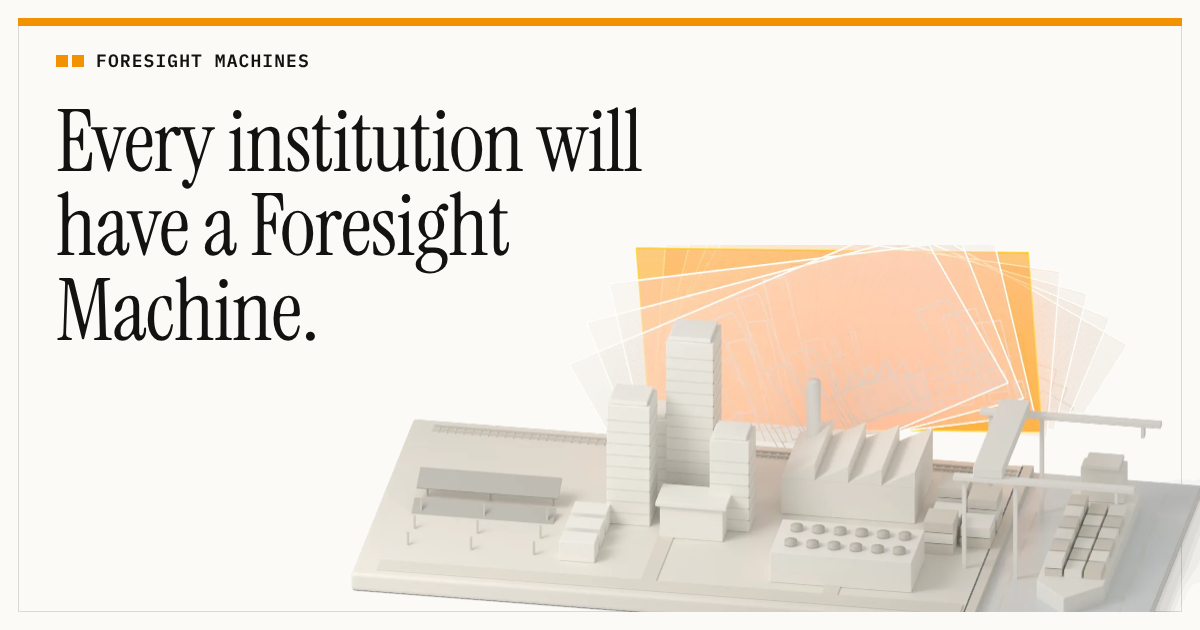
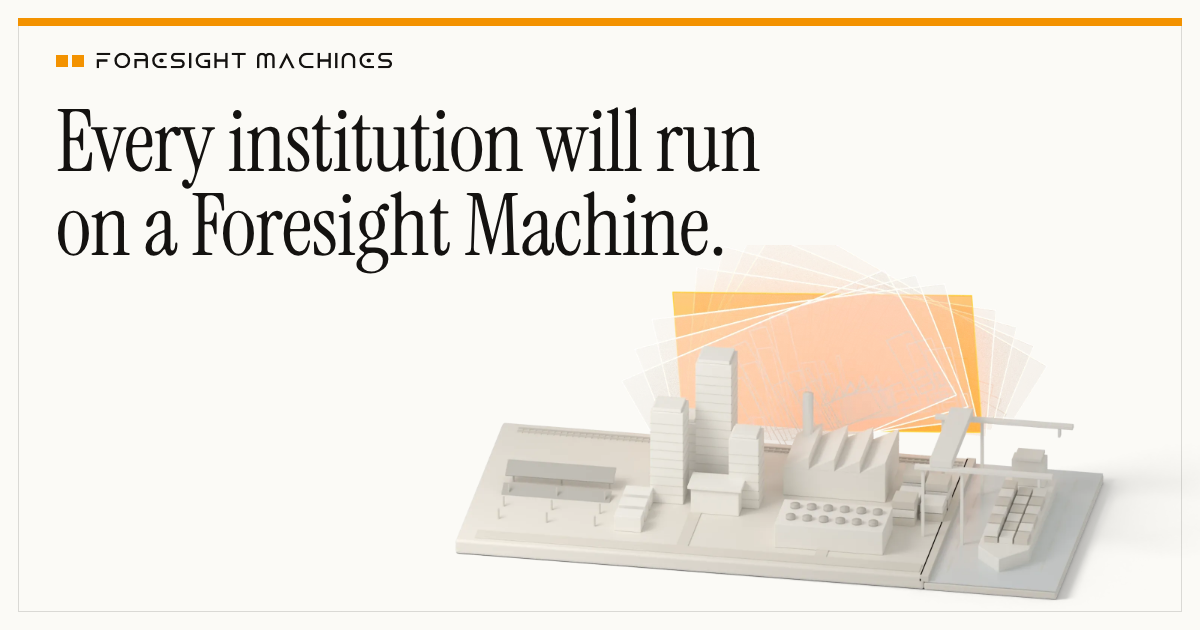
Final changes: run on, executable models, three worlds, trust earned in three places, Simulate clause, manifesto II and III
Claude-Session: https://claude.ai/code/session_01KJTweMhfZWuWexSYwMJPUu

Changed region(s): [[0.0308, 0.3016, 1.0, 0.9952], [0.0617, 0.0603, 0.3392, 0.1206], [0.5242, 0.181, 0.6475, 0.2714]]

diff --git a/index.html b/index.html
@@ -7,7 +7,7 @@
     <link rel="canonical" href="https://foresightmachines.com/" />
     <meta
       name="description"
-      content="Every institution will have a Foresight Machine to simulate its world and change what happens next."
+      content="Every institution will run on a Foresight Machine to simulate its world and change what happens next."
     />
     <meta name="theme-color" content="#f3f1ec" />
     <link rel="icon" href="/favicon.ico" sizes="48x48" />
@@ -19,16 +19,16 @@
     <link rel="preload" href="/fonts/geist-latin.woff2" as="font" type="font/woff2" crossorigin />
     <link rel="preload" href="/fonts/plexmono-600-latin.woff2" as="font" type="font/woff2" crossorigin />
     <meta property="og:title" content="Foresight Machines" />
-    <meta property="og:description" content="Every institution will have a Foresight Machine to simulate its world and change what happens next." />
+    <meta property="og:description" content="Every institution will run on a Foresight Machine to simulate its world and change what happens next." />
     <meta property="og:type" content="website" />
     <meta property="og:url" content="https://foresightmachines.com/" />
     <meta property="og:image" content="https://foresightmachines.com/og.png" />
     <meta property="og:image:width" content="1200" />
     <meta property="og:image:height" content="630" />
-    <meta property="og:image:alt" content="Foresight Machines. Every institution will have a Foresight Machine." />
+    <meta property="og:image:alt" content="Foresight Machines. Every institution will run on a Foresight Machine." />
     <meta name="twitter:card" content="summary_large_image" />
     <meta name="twitter:title" content="Foresight Machines" />
-    <meta name="twitter:description" content="Every institution will have a Foresight Machine to simulate its world and change what happens next." />
+    <meta name="twitter:description" content="Every institution will run on a Foresight Machine to simulate its world and change what happens next." />
     <meta name="twitter:image" content="https://foresightmachines.com/og.png" />
     <script type="module" src="/src/pages/home.ts"></script>
   </head>
@@ -65,8 +65,8 @@
       </div>
       <div class="hero__copy">
         <a class="hero__dispatch" href="/journal/the-future-should-be-engineered-with-foresight/"><span class="hero__dispatch-k"><span class="bar__squares" aria-hidden="true"><i></i><i></i></span>Manifesto</span><span class="hero__dispatch-t">The future should be engineered with foresight</span><span class="hero__dispatch-a" aria-hidden="true">→</span></a>
-        <h1 class="hero__line"><span class="hl hl--a">Every institution will have a Foresight&nbsp;Machine</span> <span class="hl hl--b">to simulate its world and <u>change what happens next.</u></span></h1>
-        <p class="hero__sub">A Foresight Machine models an institution and the systems it depends on: its capital, contracts, counterparties, markets and rules, and how they move together. It simulates every major decision before it is made, finds the intervention that holds, and learns from each outcome.</p>
+        <h1 class="hero__line"><span class="hl hl--a">Every institution will run on a Foresight&nbsp;Machine</span> <span class="hl hl--b">to simulate its world and <u>change what happens next.</u></span></h1>
+        <p class="hero__sub">Executable models of institutions and the systems they depend on, built to simulate shocks, intervene on the terms and price the risk across money, power and trade.</p>
         <p class="hero__actions"><a class="btn hero__act" href="/discuss/">Discuss a decision</a><a class="hero__next" href="#film">See how it works <span aria-hidden="true">↓</span></a></p>
       </div>
       <div class="hero__model deck" data-deck role="img" aria-label="A small white model of one world on a plate: a coast and a port, towers, a solar field with storage, a factory, a data center, a road and a rail line. Behind it, a fan of frosted slices, each the same world in a slightly different state. One slice glows warm orange: the same world, with one changed connection.">
@@ -102,7 +102,7 @@
                 <div class="fm__rail">
                   <ol class="fm__ch">
                     <li><button type="button" data-go="1"><i><b></b></i><span class="fm__n">01</span><span class="fm__t">Model</span><span class="fm__d">The institution, and the world it depends on: its capital, contracts, counterparties, markets and rules.</span></button></li>
-                    <li><button type="button" data-go="2"><i><b></b></i><span class="fm__n">02</span><span class="fm__t">Simulate</span><span class="fm__d">Each decision is stress-tested against past crises and extreme conditions, to find exactly where it breaks.</span></button></li>
+                    <li><button type="button" data-go="2"><i><b></b></i><span class="fm__n">02</span><span class="fm__t">Simulate</span><span class="fm__d">Each decision is stress-tested against past crises and the smallest shock that breaks it.</span></button></li>
                     <li><button type="button" data-go="3"><i><b></b></i><span class="fm__n">03</span><span class="fm__t">Intervene</span><span class="fm__d">It finds the change that holds: a new allocation, new terms, a new sequence.</span></button></li>
                     <li><button type="button" data-go="4"><i><b></b></i><span class="fm__n">04</span><span class="fm__t">Record</span><span class="fm__d">The answer and its evidence, recorded before the outcome.</span></button></li>
                   </ol>
@@ -263,8 +263,8 @@
             <p class="lead">Each is a world of its own, with its institutions, its flows and its rules, joined to the others by the money that moves between them. We model the world of money first, then follow it into the worlds it builds.</p>
           </header>
           <div class="dm dm--tabs" data-domains>
-            <div class="dm__list" role="tablist" aria-label="Worlds"><button type="button" role="tab" class="dm__c is-lit" id="dm-t-0" aria-selected="true" aria-controls="dm-p-0" data-i="0"><span class="dm__n">01</span><span class="dm__name">Money, payments and credit</span></button><button type="button" role="tab" class="dm__c" id="dm-t-1" aria-selected="false" aria-controls="dm-p-1" tabindex="-1" data-i="1"><span class="dm__n">02</span><span class="dm__name">Commodities and global trade</span></button><button type="button" role="tab" class="dm__c" id="dm-t-2" aria-selected="false" aria-controls="dm-p-2" tabindex="-1" data-i="2"><span class="dm__n">03</span><span class="dm__name">Insurance and emergent risk</span></button><button type="button" role="tab" class="dm__c" id="dm-t-3" aria-selected="false" aria-controls="dm-p-3" tabindex="-1" data-i="3"><span class="dm__n">04</span><span class="dm__name">Energy, compute and megainfrastructure</span></button></div>
-            <div class="dm__panel"><span class="ms__x" aria-hidden="true"><i></i><i></i><i></i><i></i></span><div class="dm__p" id="dm-p-0" role="tabpanel" aria-labelledby="dm-t-0"><figure class="dm__art"><img src="/w-money.svg" width="800" height="1000" alt="A city of banks and towers, coins moving along the road to shops; one route from the bank to the shops drawn in orange." loading="lazy" decoding="async" /><figcaption class="dm__cap"><span>01</span>Money, payments and credit</figcaption></figure><div class="dm__body"><p class="dm__idx">01 / 04</p><h3 class="dm__title">Money, payments and credit</h3><p class="dm__who">Digital dollars and instant rails run around the clock on top of banks that keep business hours, so cash sits idle and partner payouts are set bluntly.</p><dl class="dm__facts"><div><dt>Who decides</dt><dd>Issuers, banks, payment companies, exchanges, lenders and funds.</dd></div><div><dt>What it adds to the world</dt><dd>Mint and redemption waves through the day, bank cutoffs, rate paths, tokenized collateral and funds, and partner terms tied to how long balances stay.</dd></div></dl><dl class="dm__qs"><div class="dm__q"><dt>Optimize</dt><dd>Where should liquidity sit so every redemption and payout clears, at any hour, with the least cash trapped?</dd></div><div class="dm__q"><dt>Discover</dt><dd>What would it take to redeem instantly for a new partner?</dd></div><div class="dm__q"><dt>Coordinate</dt><dd>Which distribution terms grow balances that stay, for us and the exchange?</dd></div><div class="dm__q"><dt>Underwrite</dt><dd>What should it cost to cover redemptions that cannot clear over a weekend?</dd></div></dl></div></div><div class="dm__p" id="dm-p-1" role="tabpanel" aria-labelledby="dm-t-1" hidden><figure class="dm__art"><img src="/w-trade.svg" width="800" height="1000" alt="A port: silos, a crane over stacked containers, a tank farm and a container ship; one shipping lane drawn in orange." loading="lazy" decoding="async" /><figcaption class="dm__cap"><span>02</span>Commodities and global trade</figcaption></figure><div class="dm__body"><p class="dm__idx">02 / 04</p><h3 class="dm__title">Commodities and global trade</h3><p class="dm__who">Cargo in transit, futures margin calls and supplier credit sit in separate spreadsheets, behind a $2.5 trillion trade-finance gap.</p><dl class="dm__facts"><div><dt>Who decides</dt><dd>Commodity traders, trade and supply-chain financiers, producers and buyers.</dd></div><div><dt>What it adds to the world</dt><dd>Port and route delays tied to inventory hedges, letters of credit and the buyer’s balance sheet.</dd></div></dl><dl class="dm__qs"><div class="dm__q"><dt>Optimize</dt><dd>Hedge now, or hold and finance the inventory?</dd></div><div class="dm__q"><dt>Discover</dt><dd>What would it take to finance suppliers we decline today?</dd></div><div class="dm__q"><dt>Coordinate</dt><dd>Which supplier finance terms work for the buyer, the supplier and the bank?</dd></div><div class="dm__q"><dt>Underwrite</dt><dd>What should cover for a cargo held at port cost, given everything else on the route?</dd></div></dl></div></div><div class="dm__p" id="dm-p-2" role="tabpanel" aria-labelledby="dm-t-2" hidden><figure class="dm__art"><img src="/w-risk.svg" width="800" height="1000" alt="Houses, shops and a small data center under one large umbrella while a storm passes; the umbrella’s edge drawn in orange." loading="lazy" decoding="async" /><figcaption class="dm__cap"><span>03</span>Insurance and emergent risk</figcaption></figure><div class="dm__body"><p class="dm__idx">03 / 04</p><h3 class="dm__title">Insurance and emergent risk</h3><p class="dm__who">AI liability, cyber, autonomous systems, digital assets and a changing grid and climate lack long loss histories, behind a protection gap above $420 billion.</p><dl class="dm__facts"><div><dt>Who decides</dt><dd>Insurers, reinsurers and underwriting agencies.</dd></div><div><dt>What it adds to the world</dt><dd>How failures happen and spread, accumulation across a book, parametric triggers and reinsurance layers.</dd></div></dl><dl class="dm__qs"><div class="dm__q"><dt>Optimize</dt><dd>Where should this layer attach?</dd></div><div class="dm__q"><dt>Discover</dt><dd>What would it take to cover a risk no one writes today?</dd></div><div class="dm__q"><dt>Coordinate</dt><dd>Which cover makes this project financeable for both the lender and the insurer?</dd></div><div class="dm__q"><dt>Underwrite</dt><dd>How should a risk with no loss history be priced and layered?</dd></div></dl></div></div><div class="dm__p" id="dm-p-3" role="tabpanel" aria-labelledby="dm-t-3" hidden><figure class="dm__art"><img src="/w-energy.svg" width="800" height="1000" alt="Wind turbines on a hill, a solar field, power lines and a data center; a battery and its link to the data center drawn in orange." loading="lazy" decoding="async" /><figcaption class="dm__cap"><span>04</span>Energy, compute and megainfrastructure</figcaption></figure><div class="dm__body"><p class="dm__idx">04 / 04</p><h3 class="dm__title">Energy, compute and megainfrastructure</h3><p class="dm__who">Grids, fabs and gigawatt data centers stall when equipment lead times collide with rigid project-finance terms.</p><dl class="dm__facts"><div><dt>Who decides</dt><dd>Developers, operators and project financiers.</dd></div><div><dt>What it adds to the world</dt><dd>Transformer and interconnection schedules tied to power purchase terms, staged capital draws and debt service.</dd></div></dl><dl class="dm__qs"><div class="dm__q"><dt>Optimize</dt><dd>Stage the build, or finance it whole?</dd></div><div class="dm__q"><dt>Discover</dt><dd>What would it take to finance this project at today’s rates?</dd></div><div class="dm__q"><dt>Coordinate</dt><dd>Which offtake and financing terms hold for the developer, the buyer and the lender?</dd></div><div class="dm__q"><dt>Underwrite</dt><dd>What should cover for a late project cost, when equipment, power and financing depend on each other?</dd></div></dl></div></div></div>
+            <div class="dm__list" role="tablist" aria-label="Worlds"><button type="button" role="tab" class="dm__c is-lit" id="dm-t-0" aria-selected="true" aria-controls="dm-p-0" data-i="0"><span class="dm__n">01</span><span class="dm__name">Money, payments and credit</span></button><button type="button" role="tab" class="dm__c" id="dm-t-1" aria-selected="false" aria-controls="dm-p-1" tabindex="-1" data-i="1"><span class="dm__n">02</span><span class="dm__name">Power, compute and megainfrastructure</span></button><button type="button" role="tab" class="dm__c" id="dm-t-2" aria-selected="false" aria-controls="dm-p-2" tabindex="-1" data-i="2"><span class="dm__n">03</span><span class="dm__name">Trade and critical supply chains</span></button></div>
+            <div class="dm__panel"><span class="ms__x" aria-hidden="true"><i></i><i></i><i></i><i></i></span><div class="dm__p" id="dm-p-0" role="tabpanel" aria-labelledby="dm-t-0"><figure class="dm__art"><img src="/w-money.svg" width="800" height="1000" alt="A city of banks and towers, coins moving along the road to shops; one route from the bank to the shops drawn in orange." loading="lazy" decoding="async" /><figcaption class="dm__cap"><span>01</span>Money, payments and credit</figcaption></figure><div class="dm__body"><h3 class="dm__title">Money, payments and credit</h3><p class="dm__promise">Every payment clears at par, on time, at any hour.</p><p class="dm__for"><span>Issuers</span><span class="dm__sep" aria-hidden="true"> · </span><span>Banks</span><span class="dm__sep" aria-hidden="true"> · </span><span>Payment companies</span><span class="dm__sep" aria-hidden="true"> · </span><span>Exchanges</span><span class="dm__sep" aria-hidden="true"> · </span><span>Lenders</span></p><dl class="dm__qs"><div class="dm__q"><dt>Optimize</dt><dd>What is the smallest buffer that passes every stress test?</dd></div><div class="dm__q"><dt>Discover</dt><dd>What would it take to redeem instantly for a new partner?</dd></div><div class="dm__q"><dt>Coordinate</dt><dd>Which terms work for the issuer, its bank and its partners?</dd></div><div class="dm__q"><dt>Underwrite</dt><dd>What should it cost to cover redemptions that cannot clear over a weekend?</dd></div></dl></div></div><div class="dm__p" id="dm-p-1" role="tabpanel" aria-labelledby="dm-t-1" hidden><figure class="dm__art"><img src="/w-energy.svg" width="800" height="1000" alt="Wind turbines on a hill, a solar field, power lines and a data center; a battery and its link to the data center drawn in orange." loading="lazy" decoding="async" /><figcaption class="dm__cap"><span>02</span>Power, compute and megainfrastructure</figcaption></figure><div class="dm__body"><h3 class="dm__title">Power, compute and megainfrastructure</h3><p class="dm__promise">Capacity delivered on the contracted date, and the debt serviced.</p><p class="dm__for"><span>Developers</span><span class="dm__sep" aria-hidden="true"> · </span><span>Utilities</span><span class="dm__sep" aria-hidden="true"> · </span><span>Hyperscalers</span><span class="dm__sep" aria-hidden="true"> · </span><span>Neoclouds</span><span class="dm__sep" aria-hidden="true"> · </span><span>Lenders</span></p><dl class="dm__qs"><div class="dm__q"><dt>Optimize</dt><dd>Which build plan still holds if interconnection slips two years?</dd></div><div class="dm__q"><dt>Discover</dt><dd>What would it take to finance this campus at today’s rates?</dd></div><div class="dm__q"><dt>Coordinate</dt><dd>Which terms work for the developer, the utility and the lender?</dd></div><div class="dm__q"><dt>Underwrite</dt><dd>What should it cost to cover a late project, when power, equipment and debt depend on each other?</dd></div></dl></div></div><div class="dm__p" id="dm-p-2" role="tabpanel" aria-labelledby="dm-t-2" hidden><figure class="dm__art"><img src="/w-trade.svg" width="800" height="1000" alt="A port: silos, a crane over stacked containers, a tank farm and a container ship; one shipping lane drawn in orange." loading="lazy" decoding="async" /><figcaption class="dm__cap"><span>03</span>Trade and critical supply chains</figcaption></figure><div class="dm__body"><h3 class="dm__title">Trade and critical supply chains</h3><p class="dm__promise">Cargo, metals and chips delivered and paid for on the agreed terms.</p><p class="dm__for"><span>Traders</span><span class="dm__sep" aria-hidden="true"> · </span><span>Shippers</span><span class="dm__sep" aria-hidden="true"> · </span><span>Mines and processors</span><span class="dm__sep" aria-hidden="true"> · </span><span>Buyers</span><span class="dm__sep" aria-hidden="true"> · </span><span>Trade-finance banks</span></p><dl class="dm__qs"><div class="dm__q"><dt>Optimize</dt><dd>How should cargo at sea be hedged and routed if a strait closes?</dd></div><div class="dm__q"><dt>Discover</dt><dd>What offtake terms make a mine bankable?</dd></div><div class="dm__q"><dt>Coordinate</dt><dd>Which terms work for the buyer, the supplier and the bank?</dd></div><div class="dm__q"><dt>Underwrite</dt><dd>What should it cost to cover a cargo held at port?</dd></div></dl></div></div></div>
           </div>
         </div>
       </section>
@@ -273,12 +273,14 @@
         <span class="band__frame" aria-hidden="true"><i></i><i></i><i></i><i></i></span>
         <div class="wrap">
           <p class="chip">Validation</p>
-          <div class="vn">
+          <div class="vn vn--v3">
             <header class="vn__head">
-              <h2 class="h2">Every answer is written down before the outcome, then scored.</h2>
-              <p class="lead">The world is shared. Each institution’s machine, records and what it learns stay its own, and every outcome makes the next model better. A change to the model is kept only if it does better on past cases and worse on none.</p>
+              <h2 class="h2">A Foresight Machine earns trust the way a trader does: by its record.</h2>
+              <p class="lead">Every machine is tested where it can fail safely, then where it cannot cheat, then where it counts.</p>
             </header>
-            <ol class="vn__list"><li class="vn__r"><span class="vn__n">01</span><p class="vn__t">Every rule in the model points to a contract, record or observation.</p></li><li class="vn__r"><span class="vn__n">02</span><p class="vn__t">Every answer is scored against the rules, held-out history and stressed regimes, and compared with what the team does today.</p></li><li class="vn__r"><span class="vn__n">03</span><p class="vn__t">Every expectation is timestamped, cryptographically hashed and committed before the outcome.</p></li><li class="vn__r"><span class="vn__n">04</span><p class="vn__t">Each machine is trained on its own institution’s tasks and context, and rewarded only when its answers hold against what happens.</p></li></ol>
+            <ol class="vn__stages" aria-label="Where a machine is tested"><li class="vn__st"><p class="vn__sk"><span>01</span>RL environments</p><p class="vn__sl">Where it can fail safely.</p><p class="vn__sb">Its own world, a task and an answer that can be checked exactly. Every plan meets an adversary searching for the smallest shock that breaks it.</p></li><li class="vn__st"><p class="vn__sk"><span>02</span>Replay</p><p class="vn__sl">Where it cannot cheat.</p><p class="vn__sb">History it has never seen, scored on what actually happened.</p></li><li class="vn__st"><p class="vn__sk"><span>03</span>Live decisions</p><p class="vn__sl">Where it counts.</p><p class="vn__sb">The institution’s real decisions, recorded before the outcome and scored after.</p></li></ol>
+            <ol class="vn__list"><li class="vn__r"><span class="vn__n">01</span><p class="vn__t"><b>Built from evidence.</b> <span>Every rule in the model links to its source.</span></p></li><li class="vn__r"><span class="vn__n">02</span><p class="vn__t"><b>Tested against what it replaces.</b> <span>Every answer is compared with the team’s own plan, under the same rules.</span></p></li><li class="vn__r"><span class="vn__n">03</span><p class="vn__t"><b>Recorded before the fact.</b> <span>Every answer is written down before the outcome is known.</span></p></li><li class="vn__r"><span class="vn__n">04</span><p class="vn__t"><b>Corrected by outcomes.</b> <span>Every miss becomes a new environment. A change ships only if it does better on unseen history and worse on no past case.</span></p></li></ol>
+            <p class="vn__close">The world is shared. Each institution’s machine, its records and what it learns stay its own.</p>
           </div>
           
         </div>

diff --git a/journal/the-future-should-be-engineered-with-foresight/index.html b/journal/the-future-should-be-engineered-with-foresight/index.html
@@ -23,7 +23,7 @@
     <meta property="og:image" content="https://foresightmachines.com/og.png" />
     <meta property="og:image:width" content="1200" />
     <meta property="og:image:height" content="630" />
-    <meta property="og:image:alt" content="Foresight Machines. Every institution will have a Foresight Machine." />
+    <meta property="og:image:alt" content="Foresight Machines. Every institution will run on a Foresight Machine." />
     <meta name="twitter:card" content="summary_large_image" />
     <meta name="twitter:title" content="The future should be engineered with foresight" />
     <meta name="twitter:description" content="Our mission is to make foresight infrastructure for the financial and physical world." />
@@ -60,10 +60,10 @@
                 <h2 class="man__num"><span>I</span>The problem</h2><p class="man__lede">Humanity has built extraordinary systems for recording the past and managing the present.</p><p>We have databases that preserve what happened, financial systems that transfer value, software that organizes institutions, and markets that coordinate millions of decisions.</p><p>But the systems through which we make consequential commitments about the future remain remarkably primitive.</p><p>We allocate capital using incomplete models. We price risk using limited histories. We build infrastructure with uncertain assumptions. We make irreversible decisions without systematically examining the alternatives.</p><p>The problem is not that the future is uncertain. It is that our ability to model uncertainty, discover alternatives and coordinate commitments has not kept pace with the world we have built.</p>
               </section>
               <section class="man__sec" id="ii" aria-label="II. What changes">
-                <h2 class="man__num"><span>II</span>What changes</h2><p class="man__open">The world has outrun the tools we plan with. Money moves in seconds, and new risks arrive faster than the histories needed to price them.</p><p>Supply chains span continents, while the plans that depend on them live in spreadsheets. The commitments are connected; the tools we use to make them are not.</p><p>So the most important commitments in the economy are still made one scenario at a time, by people who know the system is bigger than the model.</p><p>Artificial intelligence changes what is possible. Machines can now read the contracts, build the models, run the futures and search the alternatives that no team had time to examine. They now forecast as well as the best human forecasters. In science, they have begun to propose ideas, test them, and learn from what fails. The same can happen for the decisions that shape the economy, because in money every answer can be checked.</p>
+                <h2 class="man__num"><span>II</span>What changes</h2><p class="man__open">The world has outrun the tools we plan with.</p><p>Money moves in seconds, supply chains span continents and power is committed for decades, while the plans that depend on them live in spreadsheets. New risks arrive faster than the histories needed to price them. The commitments are connected; the tools we use to make them are not.</p><p>So the most important commitments in the economy are still made one scenario at a time, by people who know the system is bigger than the model.</p><p>Artificial intelligence changes what is possible. Machines can now read the contracts, build the models, run the futures and search the alternatives that no team had time to examine. They now forecast as well as the best human forecasters. In science, they have begun to propose ideas, test them, and learn from what fails. The same can happen for the decisions that shape the economy, because in money every answer can be checked.</p>
               </section>
               <section class="man__sec" id="iii" aria-label="III. What our machines do">
-                <h2 class="man__num"><span>III</span>What our machines do</h2><p class="man__open">We are building Foresight Machines. Every institution will have one.</p><p>A Foresight Machine is built around a single institution. It holds a working model of that institution and the world it depends on: its money, its contracts, its counterparties, its rules. No one can experiment on a real institution. Anyone can experiment on its machine. Before anyone commits, it answers two questions: what could happen, and what would it take?</p><p>It simulates what could happen. It finds the change that holds: a sequence that makes a project possible, a structure that makes a risk bearable, an arrangement that keeps a promise when conditions change.</p><p>It improves itself. It records what it expects before events unfold, checks itself against what happens, and rewrites its own model when it misses. A machine in its third year has a record no team can match.</p><p>It starts by answering questions. Then it watches the decisions that recur. Then, as its record earns it, it acts. People set the goals. People decide how far it goes.</p><p>When two institutions each have one, their machines can work out terms that hold for both. And a machine that can price a decision can price a risk.</p>
+                <h2 class="man__num"><span>III</span>What our machines do</h2><p class="man__open">We are building Foresight Machines. Every institution will run on one.</p><p>A Foresight Machine is built around a single institution. It holds an executable model of that institution and the world it depends on: its money, its contracts, its counterparties, its rules. No one can experiment on a real institution. Anyone can experiment on its machine. Before anyone commits, it answers two questions: what could happen, and what would it take?</p><p>It simulates what could happen. It finds the change that holds: a sequence that makes a project possible, a structure that makes a risk bearable, an arrangement that keeps a promise when conditions change.</p><p>It improves itself. It records what it expects before events unfold, checks itself against what happens, and rewrites its own model when it misses. A machine in its third year has a record no team can match.</p><p>It starts by answering questions. Then it watches the decisions that recur. Then, as its record earns it, it acts. People set the goals. People decide how far it goes.</p><p>When two institutions each run one, their machines can work out terms that hold for both. And a machine that can price a decision can price a risk.</p>
               </section>
               <section class="man__sec" id="iv" aria-label="IV. What we believe">
                 <h2 class="man__num"><span>IV</span>What we believe</h2><blockquote class="man__pull"><p>We are not building an oracle. We are building machinery for better judgment.</p></blockquote><p>The future cannot be known completely. But it can be understood more deeply, explored more systematically, and shaped more responsibly.</p><p>Every institution keeps a ledger for what happened. Every institution will keep a Foresight Machine for what happens next.</p>

diff --git a/src/styles/r11.css b/src/styles/r11.css
@@ -262,3 +262,55 @@
 .fm__ch button { padding-top: clamp(10px, 1.9vh, 18px) !important; padding-bottom: clamp(10px, 1.9vh, 18px) !important; }
 .fm__d { font-size: clamp(13.5px, 1.65vh, 15px); }
 @media (max-width: 1023px), (max-height: 699px) { .fm__frame { position: relative; } .fm__play { right: 10px; bottom: 10px; padding: 5px 11px 5px 10px; font-size: 12px; } }
+
+/* ---- Worlds, Nov 20: three worlds; each panel is title, promise, who, four questions ---- */
+.dm--tabs .dm__list { grid-template-columns: repeat(3, minmax(0, 1fr)) !important; }
+.dm--tabs .dm__promise { margin: 12px 0 0; max-width: 30ch; font-family: var(--serif); font-size: clamp(20px, 1.6vw, 24px); line-height: 1.22; color: var(--ink); }
+.dm--tabs .dm__for { margin: 14px 0 0; font-family: var(--mono); font-size: 12px; line-height: 1.6; letter-spacing: 0.12em; text-transform: uppercase; color: #6f6a62; }
+@media (max-width: 899px) {
+  .dm--tabs .dm__promise { font-size: 20px; }
+  .dm--tabs .dm__q { display: grid; gap: 6px; padding: 12px 0; border: 0; border-top: 1px solid rgba(20, 18, 16, 0.12); background: none; }
+}
+@media (min-width: 900px) {
+  .dm--tabs .dm__panel { grid-template-rows: minmax(min(540px, calc(100svh - var(--header-h, 54px) - 150px)), auto); min-height: 0; }
+  .dm--tabs .dm__panel > .dm__p { align-self: stretch; }
+}
+.dm--tabs .dm__for > span:not(.dm__sep) { white-space: nowrap; }
+
+/* ---- Validation, Nov 20: three stages, four rules, one closing line ---- */
+.vn--v3 { display: block; }
+.vn--v3 .vn__head { display: grid; grid-template-columns: minmax(0, 7fr) minmax(0, 5fr); gap: clamp(24px, 5vw, 96px); align-items: end; }
+.vn--v3 .vn__head .h2 { max-width: 20ch; }
+.vn--v3 .vn__head .lead { margin: 0; max-width: 36ch; }
+.vn__stages { list-style: none; display: grid; grid-template-columns: repeat(3, minmax(0, 1fr)); margin: clamp(32px, 5vh, 56px) 0 0; padding: 0; border-top: 1px solid rgba(20, 18, 16, 0.16); border-bottom: 1px solid rgba(20, 18, 16, 0.16); counter-reset: st; }
+.vn__st { position: relative; padding: clamp(18px, 2.6vh, 28px) clamp(18px, 2.2vw, 32px) clamp(20px, 2.8vh, 30px); border-left: 1px solid rgba(20, 18, 16, 0.12); }
+.vn__st:first-child { padding-left: 0; border-left: 0; }
+.vn__st:not(:last-child)::after { content: ''; position: absolute; z-index: 1; right: -5px; top: clamp(24px, 3.2vh, 34px); width: 9px; height: 9px; border-top: 1.5px solid #f39200; border-right: 1.5px solid #f39200; transform: rotate(45deg); background: #fbfaf6; }
+.vn__sk { display: flex; align-items: baseline; gap: 12px; margin: 0; font-family: var(--mono); font-size: 12px; letter-spacing: 0.14em; text-transform: uppercase; color: #a85f00; }
+.vn__sk span { color: #8a857c; letter-spacing: 0.06em; }
+.vn__sl { margin: 12px 0 0; font-family: var(--serif); font-size: clamp(24px, 2vw, 30px); line-height: 1.1; color: var(--ink); }
+.vn__sb { margin: 10px 0 0; max-width: 38ch; font-size: 15px; line-height: 1.5; color: #4a463f; }
+.vn--v3 .vn__list { margin-top: clamp(20px, 3.4vh, 40px); border-top: 0; }
+.vn--v3 .vn__r { grid-template-columns: clamp(56px, 6vw, 96px) minmax(0, 1fr); padding: clamp(12px, 1.8vh, 18px) 0; }
+.vn--v3 .vn__n { font-size: clamp(30px, 2.8vw, 44px); }
+.vn--v3 .vn__t { display: grid; grid-template-columns: minmax(0, 5fr) minmax(0, 7fr); gap: clamp(16px, 3vw, 48px); align-items: baseline; font-family: inherit; font-size: inherit; }
+.vn--v3 .vn__t b { font-family: var(--serif); font-weight: 400; font-size: clamp(21px, 1.7vw, 26px); line-height: 1.2; color: var(--ink); }
+.vn--v3 .vn__t span { font-size: 16px; line-height: 1.5; color: #3e3a34; }
+.vn__close { margin: clamp(18px, 2.6vh, 28px) 0 0; font-size: 14px; line-height: 1.5; color: #6f6a62; }
+@media (max-width: 899px) {
+  .vn--v3 .vn__head { grid-template-columns: minmax(0, 1fr); gap: 16px; }
+  .vn__stages { grid-template-columns: minmax(0, 1fr); }
+  .vn__st, .vn__st:first-child { padding: 18px 0; border-left: 0; border-top: 1px solid rgba(20, 18, 16, 0.12); }
+  .vn__st:first-child { border-top: 0; }
+  .vn__st::after { display: none; }
+  .vn--v3 .vn__t { grid-template-columns: minmax(0, 1fr); gap: 6px; }
+}
+@media (min-width: 900px) {
+  .vn--v3 .vn__head { grid-template-columns: minmax(0, 8fr) minmax(0, 4fr); }
+  .vn--v3 .vn__head .h2 { max-width: 23ch; }
+  .vn--v3 .vn__n { font-size: clamp(28px, min(2.8vw, 4.8vh), 44px); }
+  .vn--v3 .vn__t b { font-size: clamp(20px, min(1.7vw, 3vh), 26px); }
+}
+@media (min-width: 900px) {
+  .vn--v3 .vn__head .h2 { max-width: none; font-size: clamp(38px, min(3.5vw, 6.2vh), 56px) !important; }
+}

diff --git a/src/visuals/run.ts b/src/visuals/run.ts
@@ -10,9 +10,9 @@ const PERSONAS: Record<string, { k: string; t: string; n: string; q: string }> =
   payments: { k: 'This world', t: 'Payment company', n: 'We model the world once; each institution gets its own machine.', q: 'Where should liquidity sit so every payout clears, at any hour, with the least cash trapped?' },
   exchange: { k: 'This world', t: 'Exchange', n: 'We model the world once; each institution gets its own machine.', q: 'Which distribution terms grow balances that stay, for us and the issuer?' },
   bank: { k: 'This world', t: 'Bank', n: 'We model the world once; each institution gets its own machine.', q: 'What should it cost to cover redemptions that cannot clear over a weekend?' },
-  trader: { k: 'Next, on the same engine', t: 'Commodity trader', n: 'Commodities and global trade', q: 'Hedge now, or hold and finance the inventory?' },
-  mga: { k: 'Next, on the same engine', t: 'Specialty MGA', n: 'Insurance and emergent risk', q: 'How should a risk with no loss history be priced and layered?' },
-  grid: { k: 'Next, on the same engine', t: 'Grid and compute developer', n: 'Energy, compute and megainfrastructure', q: 'Stage the build, or finance it whole?' },
+  trader: { k: 'Next, on the same engine', t: 'Commodity trader', n: 'Trade and critical supply chains', q: 'How should cargo at sea be hedged and routed if a strait closes?' },
+  mga: { k: 'Next, on the same engine', t: 'Specialty MGA', n: 'Underwrite, across all three worlds', q: 'What should it cost to cover a late project, when power, equipment and debt depend on each other?' },
+  grid: { k: 'Next, on the same engine', t: 'Grid and compute developer', n: 'Power, compute and megainfrastructure', q: 'Which build plan still holds if interconnection slips two years?' },
 };
 
 function initPersonas(root: HTMLElement): void {

diff --git a/src/visuals/film.ts b/src/visuals/film.ts
@@ -1,5 +1,5 @@
 /**
- * The film: one illustrated landscape of four worlds, in five scenes.
+ * The film: one illustrated landscape of the worlds we model, in five scenes.
  *
  * As the section scrolls in, the screen opens from a narrow band to the full
  * width, then the film plays in the site's four steps: Model (opening on the
@@ -16,7 +16,7 @@ const MODEL = 'The institution, and the world it depends on: its capital, contra
 const SCENES: Array<[number, string, number]> = [
   [6000, MODEL, 1],
   [7000, MODEL, 1],
-  [9000, 'Each decision is stress-tested against past crises and extreme conditions, to find exactly where it breaks.', 2],
+  [9000, 'Each decision is stress-tested against past crises and the smallest shock that breaks it.', 2],
   [9000, 'It finds the change that holds: a new allocation, new terms, a new sequence.', 3],
   [9000, 'The answer and its evidence, recorded before the outcome.', 4],
 ];

diff --git a/404.html b/404.html
@@ -22,7 +22,7 @@
     <meta property="og:image" content="https://foresightmachines.com/og.png" />
     <meta property="og:image:width" content="1200" />
     <meta property="og:image:height" content="630" />
-    <meta property="og:image:alt" content="Foresight Machines. Every institution will have a Foresight Machine." />
+    <meta property="og:image:alt" content="Foresight Machines. Every institution will run on a Foresight Machine." />
     <meta name="twitter:card" content="summary_large_image" />
     <meta name="twitter:title" content="Discuss a decision" />
     <meta name="twitter:description" content="Tell us what you’re weighing, what’s at stake, and what would change your mind." />

diff --git a/discuss/index.html b/discuss/index.html
@@ -23,7 +23,7 @@
     <meta property="og:image" content="https://foresightmachines.com/og.png" />
     <meta property="og:image:width" content="1200" />
     <meta property="og:image:height" content="630" />
-    <meta property="og:image:alt" content="Foresight Machines. Every institution will have a Foresight Machine." />
+    <meta property="og:image:alt" content="Foresight Machines. Every institution will run on a Foresight Machine." />
     <meta name="twitter:card" content="summary_large_image" />
     <meta name="twitter:title" content="Discuss a decision" />
     <meta name="twitter:description" content="Tell us what you’re weighing, what’s at stake, and what would change your mind." />

diff --git a/journal/index.html b/journal/index.html
@@ -23,7 +23,7 @@
     <meta property="og:image" content="https://foresightmachines.com/og.png" />
     <meta property="og:image:width" content="1200" />
     <meta property="og:image:height" content="630" />
-    <meta property="og:image:alt" content="Foresight Machines. Every institution will have a Foresight Machine." />
+    <meta property="og:image:alt" content="Foresight Machines. Every institution will run on a Foresight Machine." />
     <meta name="twitter:card" content="summary_large_image" />
     <meta name="twitter:title" content="Journal" />
     <meta name="twitter:description" content="Notes from Foresight Machines." />

diff --git a/scripts/film/worlds.py b/scripts/film/worlds.py
@@ -1,5 +1,5 @@
 #!/usr/bin/env python3
-"""The four Worlds pictures, drawn in the film's hand-inked style.
+"""The Worlds pictures (money, power, trade; the insurance picture is retired from the site), drawn in the film's hand-inked style.
 
 Each is 800 x 1000, its subject kept between y 200 and 800 so a 4:3 crop on
 phones keeps it. One orange route in each: what the machine would change.
@@ -66,7 +66,7 @@ p.tree(470, 860, 1.1); p.tree(60, 880, 1.2)
 p.machine(80, 790)
 open(os.path.join(OUT, 'w-money.svg'), 'w').write(p.svg('A city of banks and towers, coins moving along the road to shops; one route from the bank to the shops drawn in orange.'))
 
-# ---------------------------------------------------------------- trade and commodities
+# ---------------------------------------------------------------- trade and critical supply chains
 p = P()
 p.cloud(80, 110, 1.2); p.cloud(480, 160, 1.4)
 p.a(f'<path d="M0 560Q200 520 400 550T800 530V1000H0z" fill="#efe6cd" {st()}/>')
@@ -89,7 +89,7 @@ p.a(f'<path d="M30 960Q300 900 560 940T800 930" fill="none" stroke="#f39200" str
 p.machine(60, 600, 0.55)
 open(os.path.join(OUT, 'w-trade.svg'), 'w').write(p.svg('A port: silos, a crane over stacked containers, a tank farm and a container ship; one shipping lane drawn in orange.'))
 
-# ---------------------------------------------------------------- insurance and risk transfer
+# ---------------------------------------------------------------- insurance (retired from the site)
 p = P()
 p.a(f'<g><path d="M120 250c-30 0-34-36 0-40 0-34 46-42 64-18 12-34 70-34 80 0 28-12 62 6 52 32 28 2 28 28 2 28z" fill="#7f8e9a" {st()}/>'
     + ''.join(f'<path d="M{150+k*32} 276l-14 44" stroke="#5d8fb0" stroke-width="4" stroke-linecap="round"/>' for k in range(6)) + '</g>')

diff --git a/scripts/film/gen.py b/scripts/film/gen.py
@@ -1,7 +1,7 @@
 #!/usr/bin/env python3
 """Generate the illustrated film (an inline SVG) for the home page.
 
-One panorama of four worlds (money, trade, energy, insurance) drawn in a
+One panorama of the worlds we model (money, power, trade) drawn in a
 hand-inked style. Scenes are driven by CSS from a data-s attribute
 (src/styles/r11.css, src/visuals/film.ts). Run: python3 scripts/film/gen.py > src/partials/film.svg
 """
@@ -43,7 +43,7 @@ def house(x, y, s=1.0, roof='#c9553a', fill='#f6efe2'):
 def tree(x, y, s=1.0):
     o(f'<g transform="translate({x} {y}) scale({s})"><path d="M0 0v30" {st(2.4)}/><circle cx="0" cy="-8" r="17" fill="#a7c98f" {st()}/></g>')
 
-o(f'<svg class="fm__svg" viewBox="0 0 {W} {H}" xmlns="http://www.w3.org/2000/svg" role="img" aria-label="A landscape of four worlds, money, trade, energy and insurance, and a machine that models it, tries it across many possible futures, finds what holds, and records its answer before the outcome.">')
+o(f'<svg class="fm__svg" viewBox="0 0 {W} {H}" xmlns="http://www.w3.org/2000/svg" role="img" aria-label="A landscape of the worlds we model, money, power and trade, and a machine that models it, tries it across many possible futures, finds what holds, and records its answer before the outcome.">')
 o('<defs>')
 o('<filter id="fm-hand" x="-2%" y="-2%" width="104%" height="104%"><feTurbulence type="fractalNoise" baseFrequency="0.022" numOctaves="2" seed="3" result="n"/><feDisplacementMap in="SourceGraphic" in2="n" scale="3"/></filter>')
 o('<linearGradient id="fm-sky" x1="0" y1="0" x2="0" y2="1"><stop offset="0" stop-color="#ece6da"/><stop offset=".72" stop-color="#f5f1e8"/></linearGradient>')
